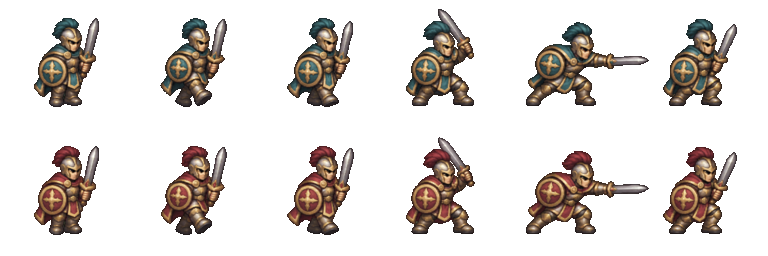
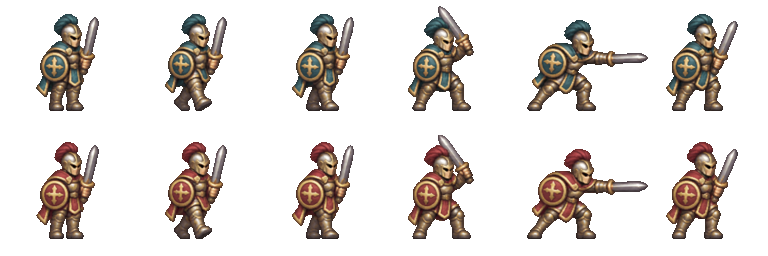
Refine follower proportions and band limits

diff --git a/games/meddle/game.js b/games/meddle/game.js
@@ -61,8 +61,8 @@ import { musicRequestCurrent } from "./music-state.mjs?v=20261107-1";
   const mapSizeDescription=size=>`${size}×${size} map · ${size===34?"standard walker speed":size===54?"walkers move 10% slower":"walkers move 20% slower"}`;
   const saveSessionId=globalThis.crypto?.randomUUID?.()||`${Date.now()}-${Math.random()}`;
   const terrainAtlas=new Image(),terrainPatterns={};terrainAtlas.src="./assets/terrain-textures-v1.png";terrainAtlas.addEventListener("load",()=>{const half=terrainAtlas.naturalWidth/2;for(const [name,qx,qy] of [["grass",0,0],["earth",half,0],["water",0,half],["bog",half,half]]){const tile=document.createElement("canvas");tile.width=tile.height=256;tile.getContext("2d").drawImage(terrainAtlas,qx,qy,half,half,0,0,256,256);terrainPatterns[name]=ctx.createPattern(tile,"repeat");}});
-  const followerAnimationSprites=new Image();followerAnimationSprites.src="./assets/follower-animations.png?v=2";
-  const championAnimationSprites=new Image();championAnimationSprites.src="./assets/champion-animations.png?v=2";
+  const followerAnimationSprites=new Image();followerAnimationSprites.src="./assets/follower-animations.png?v=3";
+  const championAnimationSprites=new Image();championAnimationSprites.src="./assets/champion-animations.png?v=3";
   const frontierResourceSprites=Object.fromEntries(["forest","mine","farm"].map(type=>{const image=new Image();image.src=`./assets/frontier-${type}.webp`;return[type,image];}));
   const buildingSprites=Object.fromEntries(["player","rival","rival2"].map(faction=>[faction,Array.from({length:4},(_,level)=>Array.from({length:4},(_,rotation)=>{const image=new Image();image.src=`./assets/building-${level+1}-${rotation}${faction==="player"?"":"-rival"}.png?v=8`;return image;}))]));
   // Each source render is centered on its plot's diamond, rather than pinned to
@@ -244,7 +244,7 @@ import { musicRequestCurrent } from "./music-state.mjs?v=20261107-1";
 
   function drawHouseLabel(h,used=[]){if(camera.zoom<1.15)return;const z=tileHeight(Math.floor(h.x),Math.floor(h.y));if(z<=water)return;const sprite=buildingSprites[h.faction][h.level-1][camera.rotation],base=iso(h.x,h.y,z),scale=BUILDING_SCALES[h.level-1],anchor=BUILDING_ANCHORS[h.level-1][camera.rotation],spriteHeight=sprite.complete&&sprite.naturalWidth?view.tw*scale*sprite.naturalHeight/sprite.naturalWidth:0,p=spriteHeight?{x:base.x,y:base.y-spriteHeight*anchor}:iso(h.x,h.y,z+[0,1.42,1.78,2.38,4.18][h.level]),label=`${HOUSE_NAMES[h.level]} · ${h.pop}/${h.cap}`;ctx.save();ctx.font="bold 9px ui-monospace,SFMono-Regular,monospace";ctx.textAlign="center";const width=Math.ceil(ctx.measureText(label).width)+10,x=clamp(p.x,width/2+4,view.w-width/2-4);let y=clamp(p.y-17,5,view.h-18),attempts=0;while(attempts++<5&&used.some(r=>x+width/2>r.x&&x-width/2<r.x+r.w&&y+13>r.y&&y<r.y+13))y=Math.max(5,y-15);used.push({x:x-width/2,y,w:width});ctx.fillStyle="#080b10d9";ctx.fillRect(x-width/2,y,width,13);ctx.strokeStyle=colors[h.faction];ctx.lineWidth=1;ctx.strokeRect(x-width/2,y,width,13);ctx.fillStyle="#f2ead2";ctx.fillText(label,x,y+10);ctx.restore();}
 
-  function drawRasterFollower(p,q,c,walk,fight){const champion=p.champion,leader=p.leader&&!champion,atlas=champion?championAnimationSprites:followerAnimationSprites;if(!atlas.complete||!atlas.naturalWidth)return false;const tier=leader?3:bandTier(p),rows=champion?2:6,row=champion?(p.faction==="player"?0:1):(p.faction==="player"?0:3)+tier-1,frame=followerAnimationFrame(p,elapsed),sw=atlas.naturalWidth/6,sh=atlas.naturalHeight/rows,size=view.tw*(champion?.74:leader?.7:.58+(tier-1)*.06),moving=(p.movingUntil||0)>elapsed,bob=moving&&!fight?Math.abs(walk)*-.2:0,dy=q.y-size*.82+bob,facing=p.facing===-1?-1:1;ctx.save();ctx.imageSmoothingEnabled=false;ctx.translate(q.x,0);ctx.scale(facing,1);ctx.drawImage(atlas,frame*sw,row*sh,sw,sh,-size/2,dy,size,size);ctx.restore();const readout=followerReadout(p),members=bandSize(p);ctx.save();if(leader){ctx.strokeStyle="#f3ce68";ctx.lineWidth=2;ctx.beginPath();ctx.arc(q.x,dy+size*.49,size*.27,Math.PI*.12,Math.PI*.88);ctx.stroke();}if(champion||leader||fight||readout.condition==="fading"||readout.condition==="wounded"){ctx.fillStyle="#07090cd9";ctx.fillRect(q.x-10,dy-3,20,3);ctx.fillStyle=readout.condition==="fading"?"#f3d77a":c;ctx.fillRect(q.x-10,dy-3,20*readout.strength/readout.maximum,3);}if(!champion&&members>1){ctx.fillStyle="#080b10dd";ctx.beginPath();ctx.arc(q.x+size*.25,dy+size*.15,7,0,Math.PI*2);ctx.fill();ctx.strokeStyle=c;ctx.stroke();ctx.fillStyle="#fff4d2";ctx.font="bold 9px ui-monospace";ctx.textAlign="center";ctx.fillText(String(members),q.x+size*.25,dy+size*.15+3);}ctx.restore();return true;}
+  function drawRasterFollower(p,q,c,walk,fight){const champion=p.champion,leader=p.leader&&!champion,atlas=champion?championAnimationSprites:followerAnimationSprites;if(!atlas.complete||!atlas.naturalWidth)return false;const tier=leader?3:bandTier(p),rows=champion?2:6,row=champion?(p.faction==="player"?0:1):(p.faction==="player"?0:3)+tier-1,frame=fight?3+Math.floor((elapsed+p.id*.03125)*9)%3:followerAnimationFrame(p,elapsed),sw=atlas.naturalWidth/6,sh=atlas.naturalHeight/rows,size=view.tw*(champion?.74:leader?.7:.58+(tier-1)*.06),moving=(p.movingUntil||0)>elapsed,bob=moving&&!fight?Math.abs(walk)*-.2:0,dy=q.y-size*.82,bacing=p.facing===-1?-1:1;ctx.save();ctx.imageSmoothingEnabled=false;ctx.translate(q.x,0);ctx.scale(bacing,1);ctx.drawImage(atlas,frame*sw,row*sh,sw,sh,-size/2,dy,size,size);ctx.restore();const readout=followerReadout(p),members=bandSize(p);ctx.save();if(leader){ctx.strokeStyle="#f3ce68";ctx.lineWidth=2;ctx.beginPath();ctx.arc(q.x,dy+size*.49,size*.27,Math.PI*.12,Math.PI*.88);ctx.stroke();}if(champion||leader||fight||readout.condition==="fading"||readout.condition==="wounded"){ctx.fillStyle="#07090cd9";ctx.fillRect(q.x-10,dy-3,20,3);ctx.fillStyle=readout.condition==="fading"?"#f3d77a":c;ctx.fillRect(q.x-10,dy-3,20*readout.strength/readout.maximum,3);}if(!champion&&members>1){ctx.fillStyle="#080b10dd";ctx.beginPath();ctx.arc(q.x+size*.25,dy+size*.15,7,0,Math.PI*2);ctx.fill();ctx.strokeStyle=c;ctx.stroke();ctx.fillStyle="#fff4d2";ctx.font="bold 9px ui-monospace";ctx.textAlign="center";ctx.fillText(String(members),q.x+size*.25,dy+size*.15+3);}ctx.restore();return true;}
 
   function drawPerson(p) {
     const z = tileHeight(clamp(Math.floor(p.x),0,N-1),clamp(Math.floor(p.y),0,N-1)); if (z <= water) return;
@@ -325,8 +325,10 @@ import { musicRequestCurrent } from "./music-state.mjs?v=20261107-1";
 
   function raiseReckoningRoute(p){const steps=Math.ceil(Math.hypot(p.x-N/2,p.y-N/2)*2),level=Math.ceil(water+1);for(let i=0;i<=steps;i++){const t=i/Math.max(1,steps),x=clamp(Math.floor(p.x+(N/2-p.x)*t),0,N-1),y=clamp(Math.floor(p.y+(N/2-p.y)*t),0,N-1);if(tileHeight(x,y)<=water)for(const [vx,vy] of [[x,y],[x+1,y],[x,y+1],[x+1,y+1]])heights[vy][vx]=Math.max(heights[vy][vx],level);}}
 
+  function emitDwellingFollower(h){const active=people.filter(p=>p.faction===h.faction),limit=activeBandLimit();if(active.length<limit){spawn(h.faction,h.x+rand(-.3,.3),h.y+rand(-.3,.3));return true;}const target=active.filter(p=>!p.leader&&!p.champion&&bandSize(p)<4).sort((a,b)=>dist(a,h)-dist(b,h))[0];if(target){target.members=bandSize(target)+1;target.hp=Math.min(target.members*18,target.hp+10);addBattleFx(target.x,target.y,"merge",colors[h.faction]);return true;}h.pop+=1;return false;}
+
   function updateHouses(dt){
-    if(frontierEconomy){refreshFrontierFarms();for(const faction of activeFactionDefs().map(def=>def.id)){const factionHouses=houses.filter(h=>h.faction===faction),factionPeople=people.filter(p=>p.faction===faction),farms=frontierEconomy.farms.filter(farm=>farm.faction===faction&&farm.active===true),workers=farms.filter(farm=>factionPeople.some(p=>p.job==="food"&&dist(farm,p)<.75)).length;advanceFoodEconomy(frontierEconomy.stock[faction],{walkers:factionPeople.length,houses:factionHouses.length,residents:factionHouses.reduce((sum,h)=>sum+h.pop,0),farms:farms.length,workers,dt});}}const orderedHouses=frontierEconomy?[...houses].sort((a,b)=>a.faction.localeCompare(b.faction)||a.y-b.y||a.x-b.x):houses;for(const h of orderedHouses){h.grow+=dt;h.hp=Math.min(20+h.level*10,h.hp+dt*.3);if(frontierEconomy&&frontierEconomy.stock[h.faction].food<=0){h.grow=Math.max(0,h.grow-dt*.7);continue;}if(h.grow>dwellingGrowthInterval(h.level)*(frontierEconomy?2.2:1)){const emitted=advanceDwelling(h);if(frontierEconomy)frontierEconomy.stock[h.faction].food=Math.max(0,frontierEconomy.stock[h.faction].food-(1.5+h.level*.5));if(emitted)spawn(h.faction,h.x+rand(-.3,.3),h.y+rand(-.3,.3));h.grow=0;}}if(frontierEconomy&&simElapsed>=frontierEconomy.nextFarmAt){buildFrontierFarms();buildFrontierCauseways();frontierEconomy.nextFarmAt=simElapsed+15;}
+    if(frontierEconomy){refreshFrontierFarms();for(const faction of activeFactionDefs().map(def=>def.id)){const factionHouses=houses.filter(h=>h.faction===faction),factionPeople=people.filter(p=>p.faction===faction),farms=frontierEconomy.farms.filter(farm=>farm.faction===faction&&farm.active===true),workers=farms.filter(farm=>factionPeople.some(p=>p.job==="food"&&dist(farm,p)<.75)).length;advanceFoodEconomy(frontierEconomy.stock[faction],{walkers:factionPeople.length,houses:factionHouses.length,residents:factionHouses.reduce((sum,h)=>sum+h.pop,0),farms:farms.length,workers,dt});}}const orderedHouses=frontierEconomy?[...houses].sort((a,b)=>a.faction.localeCompare(b.faction)||a.y-b.y||a.x-b.x):houses;for(const h of orderedHouses){h.grow+=dt;h.hp=Math.min(20+h.level*10,h.hp+dt*.3);if(frontierEconomy&&frontierEconomy.stock[h.faction].food<=0){h.grow=Math.max(0,h.grow-dt*.7);continue;}if(h.grow>dwellingGrowthInterval(h.level)*(frontierEconomy?2.2:1)){const emitted=advanceDwelling(h);if(frontierEconomy)frontierEconomy.stock[h.faction].food=Math.max(0,frontierEconomy.stock[h.faction].food-(1.5+h.level*.5));if(emitted)emitDwellingFollower(h);h.grow=0;}}if(frontierEconomy&&simElapsed>=frontierEconomy.nextFarmAt){buildFrontierFarms();buildFrontierCauseways();frontierEconomy.nextFarmAt=simElapsed+15;}
   }
 
   function farmRouteLength(home,farm){const blocked=(x,y)=>landmarks.some(item=>Math.floor(item.x)===x&&Math.floor(item.y)===y&&landmarkBlocksPath(item));return boundedFarmRoute({start:home,goal:farm,radius:12,canEnter:(x,y,current)=>x>=0&&y>=0&&x<N&&y<N&&dry(x,y)&&Math.abs(tileHeight(x,y)-tileHeight(current.x,current.y))<=1.6&&!blocked(x,y),diagonalClear:(current,dx,dy)=>!blocked(current.x+dx,current.y)&&!blocked(current.x,current.y+dy)});}
@@ -351,7 +353,7 @@ import { musicRequestCurrent } from "./music-state.mjs?v=20261107-1";
   function nearestTo(origin,items){let best=null,bestDistance=Infinity;for(const item of items){const distance=dist(origin,item);if(distance<bestDistance){best=item;bestDistance=distance;}}return best;}
   const activeBandLimit=()=>N===74?120:N===54?90:60;
   function mergeCandidates(faction){const active=people.filter(p=>p.faction===faction&&!p.leader&&!p.champion),buckets=spatialBuckets(active,1.5);return active.some(source=>nearbyFrom(buckets,source,1.5,1.5).some(target=>target!==source&&bandSize(target)<4));}
-  function consolidateFaction(faction,limit=0){let active=people.filter(p=>p.faction===faction),merged=0,souls=0;const buckets=spatialBuckets(active,1.5),sources=active.filter(p=>!p.leader&&!p.champion).sort((a,b)=>bandSize(a)-bandSize(b));for(const source of sources){if(limit&&active.length<=limit||!people.includes(source))break;const target=nearbyFrom(buckets,source,1.5,1.5).filter(p=>p!==source&&p.faction===faction&&!p.leader&&!p.champion&&people.includes(p)&&bandSize(p)<4).sort((a,b)=>dist(a,source)-dist(b,source))[0];if(!target)continue;const moved=mergeFollowerBands(target,source);if(!moved)continue;merged++;souls+=moved;addBattleFx(target.x,target.y,"merge",colors[faction]);if(bandSize(source)<=0||source.members===0){people.splice(people.indexOf(source),1);active=active.filter(p=>p!==source);}}return{merged,souls};}
+  function consolidateFaction(faction,limit=0){let active=people.filter(p=>p.faction===faction),operations=0,souls=0,effects=0;const beforeBands=active.length,buckets=spatialBuckets(active,1.5),sources=active.filter(p=>!p.leader&&!p.champion).sort((a,b)=>bandSize(a)-bandSize(b));for(const source of sources){if(limit&&active.length<=limit||!people.includes(source))break;const target=nearbyFrom(buckets,source,1.5,1.5).filter(p=>p!==source&&p.faction===faction&&!p.leader&&!p.champion&&people.includes(p)&&bandSize(p)<4).sort((a,b)=>dist(a,source)-dist(b,source))[0];if(!target)continue;const moved=mergeFollowerBands(target,source);if(!moved)continue;operations++;souls+=moved;if(effects++<4)addBattleFx(target.x,target.y,"merge",colors[faction]);if(bandSize(source)<=0||source.members===0){people.splice(people.indexOf(source),1);active=active.filter(p=>p!==source);}}return{operations,souls,beforeBands,afterBands:people.filter(p=>p.faction===faction).length};}
   function consolidateFollowerBands(){const limit=activeBandLimit();for(const faction of activeFactionDefs().map(def=>def.id).filter(id=>id!=="player"))if(people.filter(p=>p.faction===faction).length>limit)consolidateFaction(faction,limit);}
   function loseBandMember(p){const casualty=applyFollowerCasualty(p);addBattleFx(p.x,p.y,"fall",colors[p.faction]);if(casualty.dead){const index=people.indexOf(p);if(index>=0)people.splice(index,1);}return casualty;}
   function updatePeople(dt){if(simElapsed>=nextBandMergeAt){consolidateFollowerBands();nextBandMergeAt=simElapsed+1;}const peopleBuckets=spatialBuckets(people),houseBuckets=spatialBuckets(houses),farmBuckets=spatialBuckets(frontierEconomy?.farms||[]),nodeBuckets=spatialBuckets((frontierEconomy?.nodes||[]).filter(node=>node.amount>0)),alivePeople=new Set(people),starvingFactions=new Set(frontierEconomy?activeFactionDefs().map(def=>def.id).filter(id=>frontierEconomy.stock[id].food<=0):[]);pathBudget=N>34?Math.max(2,Math.floor(120*dt/Math.max(1,speed))):Infinity;
@@ -360,7 +362,7 @@ import { musicRequestCurrent } from "./music-state.mjs?v=20261107-1";
       if(frontierEconomy&&p.job==="food"){const farm=nearbyFrom(farmBuckets,p,.75).find(item=>item.faction===p.faction&&item.active===true);if(farm){p.retarget=0;continue;}}
       if(frontierEconomy&&p.job&&p.job!=="food"&&p.job!=="build"){const node=nearbyFrom(nodeBuckets,p,.7).find(item=>item.type===resourceForJob(p.job)&&item.amount>0);if(node){harvest(node,frontierEconomy.stock[p.faction],dt,p.job==="wood"?1.1:.8);p.retarget=0;continue;}}
       const enemyHouse=nearbyFrom(houseBuckets,p,.9).find(h=>h.faction!==p.faction);if(p.champion&&enemyHouse){assaultHouse(p,enemyHouse,dt);continue;}
-      const enemy=order==="reckoning"?null:nearbyFrom(peopleBuckets,p,.55).find(q=>q!==p&&q.faction!==p.faction&&alivePeople.has(q));if(enemy&&!p.champion){faceToward(p,enemy);faceToward(enemy,p);const attackerRank=1+(bandTier(p)-1)*.12,defenderRank=1+(bandTier(enemy)-1)*.12,deaths=resolveCombatTick(p,enemy,dt*(p.leader?4:2.2)*Math.sqrt(bandSize(p))*attackerRank,dt*(enemy.champion?8:enemy.leader?3:1.5)*Math.sqrt(bandSize(enemy))*defenderRank);p.combatUntil=enemy.combatUntil=elapsed+.3;if((Math.floor(elapsed*10)+p.id)%4===0)addBattleFx((p.x+enemy.x)/2,(p.y+enemy.y)/2);if(deaths.defenderDead){const casualty=loseBandMember(enemy);awardBandExperience(p,casualty.lost);if(casualty.dead)alivePeople.delete(enemy);}if(deaths.attackerDead){const casualty=loseBandMember(p);awardBandExperience(enemy,casualty.lost);if(casualty.dead)alivePeople.delete(p);}continue;}
+      const enemy=order==="reckoning"?null:nearbyFrom(peopleBuckets,p,.55).find(q=>q!==p&&q.faction!==p.faction&&alivePeople.has(q));if(enemy){faceToward(p,enemy);faceToward(enemy,p);const attackerRank=1+(bandTier(p)-1)*.12,defenderRank=1+(bandTier(enemy)-1)*.12,deaths=resolveCombatTick(p,enemy,dt*(p.champion?8:p.leader?4:2.2)*Math.sqrt(bandSize(p))*attackerRank,dt*(enemy.champion?8:enemy.leader?4:2.2)*Math.sqrt(bandSize(enemy))*defenderRank);p.combatUntil=enemy.combatUntil=elapsed+.3;if((Math.floor(elapsed*10)+p.id)%4===0)addBattleFx((p.x+enemy.x)/2,(p.y+enemy.y)/2);if(deaths.defenderDead){const casualty=loseBandMember(enemy);awardBandExperience(p,casualty.lost);if(casualty.dead)alivePeople.delete(enemy);}if(deaths.attackerDead){const casualty=loseBandMember(p);awardBandExperience(enemy,casualty.lost);if(casualty.dead)alivePeople.delete(p);}continue;}
       if(enemyHouse){assaultHouse(p,enemyHouse,dt);continue;}
       const ally=p.faction!=="player"&&nearbyFrom(peopleBuckets,p,.25).find(q=>q!==p&&q.faction===p.faction&&!q.leader&&!p.leader&&p.hp<6&&bandSize(q)<4&&alivePeople.has(q));if(ally){mergeFollowerBands(ally,p);addBattleFx(ally.x,ally.y,"merge",colors[p.faction]);if(p.members===0){alivePeople.delete(p);people.splice(people.indexOf(p),1);}continue;}
       if(order!=="reckoning"&&p.faction==="player"&&p.settle<=0&&(order==="settle"||order==="fightsettle"&&!p.champion&&!findLocalFightTarget(p))&&trySettle(p)){continue;} if(order!=="reckoning"&&p.faction!=="player"&&p.settle<=0&&trySettle(p)){continue;}
@@ -415,7 +417,7 @@ import { musicRequestCurrent } from "./music-state.mjs?v=20261107-1";
   function orunAct(){const own=people.filter(person=>person.faction==="rival2");if(!own.length)return;const homes=houses.filter(house=>house.faction==="rival2"),doctrine=rivalDoctrineAt(simElapsed+37),actor=own[Math.floor(worldRandom()*own.length)];if(doctrine===0&&rival2Mana>=8){const anchor=[...homes].sort((a,b)=>(a.support||0)-(b.support||0))[0]||actor;if(shape({x:clamp(Math.round(anchor.x+rand(-2,2)),0,N),y:clamp(Math.round(anchor.y+rand(-2,2)),0,N)},worldRandom()<.76?1:-1,"rival2"))rival2Mana-=8;}if(doctrine===1&&rival2Mana>=300&&!own.some(person=>person.champion)){const leader=own.find(person=>person.leader)||actor;leader.champion=true;leader.hp=Math.max(leader.hp,110);rival2Mana-=300;say("Orun crowns a champion. A second enemy host is advancing.",true,leader);}if(doctrine===2&&rival2Mana>=210&&worldRandom()<.32){const targets=houses.filter(house=>house.faction!=="rival2").sort((a,b)=>(a.lastTargetedAt||-Infinity)-(b.lastTargetedAt||-Infinity));const target=targets[0];if(target){for(let y=Math.floor(target.y)-1;y<=Math.floor(target.y)+1;y++)for(let x=Math.floor(target.x)-1;x<=Math.floor(target.x)+1;x++)if(x>=0&&y>=0&&x<N&&y<N&&worldRandom()<.45)bogs.add(`${x},${y}`);target.lastTargetedAt=simElapsed;rival2Mana-=210;say(`Orun poisoned ${target.faction==="player"?"your":"Veyra's"} ${HOUSE_NAMES[target.level]} in the ${realmSector(target)}.`,true,target);}}}
 
   function population(f){return populationOf(people,houses,f);}
-  function updateBandState(){const ph=houses.filter(h=>h.faction==="player").length,pb=people.filter(p=>p.faction==="player").length,rh=houses.filter(h=>h.faction==="rival").length,rb=people.filter(p=>p.faction==="rival").length,limit=activeBandLimit(),doctrine=["shaping land","mustering","sabotaging"][rivalDoctrineAt(simElapsed)],playerState=$("#player-homes"),canMerge=mergeCandidates("player");playerState.textContent=`${ph} dwelling${ph===1?"":"s"} · ${pb}/${limit} active bands`;playerState.title=`Choose Consolidate nearby to combine close ordinary followers into bands of up to four souls.`;const button=$("#consolidate-bands");button.disabled=!canMerge;button.title=canMerge?"Combine nearby ordinary followers while conserving every soul.":"Move ordinary followers closer together before consolidating.";if(!frontierTestMode)$("#rival-homes").textContent=`${rh} dwelling${rh===1?"":"s"} · ${rb}/${limit} bands · ${doctrine}`;}
+  function updateBandState(){const ph=houses.filter(h=>h.faction==="player").length,pb=people.filter(p=>p.faction==="player").length,rh=houses.filter(h=>h.faction==="rival").length,rb=people.filter(p=>p.faction==="rival").length,limit=activeBandLimit(),doctrine=["shaping land","mustering","sabotaging"][rivalDoctrineAt(simElapsed)],playerState=$("#player-homes"),canMerge=mergeCandidates("player");playerState.textContent=`${ph} dwelling${ph===1?"":"s"} · ${pb}/${limit} active bands`;playerState.title=`At ${limit} active bands, new emigrants join an existing band or remain sheltered. Consolidate nearby to open room.`;const button=$("#consolidate-bands");button.disabled=!canMerge;button.title=canMerge?"Combine nearby ordinary followers while conserving every soul.":"Move ordinary followers closer together before consolidating.";if(!frontierTestMode)$("#rival-homes").textContent=`${rh} dwelling${rh===1?"":"s"} · ${rb}/${limit} bands · ${doctrine}`;}
   function powerAvailability(name){if(name==="armageddon"&&!matchVariantRule(matchVariant).reckoning)return{available:false,reason:"Sealed in Mortal Contest"};return operationAvailability({paused,mana,cost:COST[name]});}
   function rulesDescription(){const world=worldRule(currentWorld),variant=matchVariantRule(matchVariant);return`${world.name} · ${world.summary} ${variant.name} · ${variant.summary}`;}
   function updateUI(){const pp=population("player"),rp=population("rival"),op=frontierTestMode?population("rival2"):0,ph=houses.filter(h=>h.faction==="player").length,rh=houses.filter(h=>h.faction==="rival").length,oh=frontierTestMode?houses.filter(h=>h.faction==="rival2").length:0,doctrine=["shaping land","mustering","sabotaging"][rivalDoctrineAt(simElapsed)],observed=faction=>{const seenPeople=people.filter(p=>p.faction===faction&&visibleFrontierObject(p)),seenHomes=houses.filter(h=>h.faction===faction&&visibleFrontierObject(h));return{seen:seenPeople.length+seenHomes.length>0,pop:seenPeople.length+seenHomes.reduce((sum,h)=>sum+h.pop,0),homes:seenHomes.length};},vr=frontierTestMode?observed("rival"):null,or=frontierTestMode?observed("rival2"):null;$("#player-pop").textContent=pp;$("#rival-label").textContent=frontierTestMode?"Veyra / Orun":"Veyra";$("#rival-pop").textContent=frontierTestMode?`${vr.seen?`${vr.pop}+`:"?"} · ${or.seen?`${or.pop}+`:"?"}`:rp;$("#player-homes").textContent=`${ph} dwelling${ph===1?"":"s"}`;$("#rival-homes").textContent=frontierTestMode?`${vr.seen?vr.homes:"?"} / ${or.seen?or.homes:"?"} observed dwellings`:`${rh} dwelling${rh===1?"":"s"} · ${doctrine}`;$("#rival-intent").textContent=frontierTestMode?(vr.seen||or.seen?`Rival activity observed · ${rivalIntent}`:"Rival intentions remain hidden beyond the shroud."):rivalIntent;if(frontierEconomy){const stock=frontierEconomy.stock.player,shortage=stock.food<20?" · FOOD SHORTAGE":stock.wood<28?" · wood needed":"";$("#frontier-stock").textContent=`Food ${Math.floor(stock.food)} · Wood ${Math.floor(stock.wood)} · Stone ${Math.floor(stock.stone)}${shortage}`;}$("#mana-value").textContent=Math.floor(mana);$("#mana-fill").style.width=`${Math.min(100,mana/9.99)}%`;$$(`[data-power]`).forEach(b=>{const name=b.dataset.power,state=powerAvailability(name);b.disabled=!state.available;b.title=`${POWER_INFO[name].name}: ${COST[name]} influence · ${POWER_INFO[name].summary}. ${state.reason}.`;b.setAttribute("aria-label",b.title);});}
@@ -481,7 +483,7 @@ import { musicRequestCurrent } from "./music-state.mjs?v=20261107-1";
   window.addEventListener("keydown",e=>{if(e.target.closest?.("input, select, textarea"))return;const k=e.key.toLowerCase();if(k==="escape"&&power){selectPower(null);say("Power target cancelled.");e.preventDefault();return;}if(e.repeat)return;if(k==="h"||k==="b"){(k==="h"?focusPeople:focusBattle)();e.preventDefault();return;}if(["arrowleft","arrowright","arrowup","arrowdown","w","a","s","d"].includes(k)){keys.add(k);e.preventDefault();return;}if(k==="z"||k==="x"){rotateCamera(k==="z"?-1:1);e.preventDefault();return;}if(k==="r"||k==="f"){e.preventDefault();if(power){say("Cancel the armed power before shaping terrain.");return;}if(paused){say("Resume the world before shaping terrain.");return;}if(!hoverCorner){say("Hover a terrain joint first.");return;}const delta=k==="r"?1:-1;if(shape(hoverCorner,delta)){setStatus(`${k==="r"?"Raised":"Lowered"} joint ${hoverCorner.x},${hoverCorner.y} with the ${k.toUpperCase()} key.${landmarkFeedback()}${describeSettlementChange(settlementChange)}`);updateUI();}return;}});window.addEventListener("keyup",e=>keys.delete(e.key.toLowerCase()));
   $$('.tool').forEach(b=>b.addEventListener("click",()=>setTool(b.dataset.tool)));
   $$('.order').forEach(b=>b.addEventListener("click",()=>{order=b.dataset.order;setOrderIndicator({settle:"Settle",gather:"Gather",roam:"Roam",fightsettle:"Fight + settle"}[order]);setStatus({settle:"Your people seek broad, level ground.",gather:"Your leader follows the beacon and the tribe follows the leader.",roam:"Your people roam outward and confront rivals.",fightsettle:"Your people fight reachable enemies nearby, then settle when the area is clear."}[order]);}));
-  $("#consolidate-bands").addEventListener("click",()=>{const before=population("player"),result=consolidateFaction("player");if(!result.merged){setStatus("No nearby ordinary followers can consolidate yet.");return;}const after=population("player"),message=`${result.merged} nearby group${result.merged===1?"":"s"} joined into stronger bands. ${after} souls remain.`;say(message,true,people.find(p=>p.faction==="player"));if(after!==before)console.error("Follower consolidation changed population",{before,after});updateUI();});
+  $("#consolidate-bands").addEventListener("click",()=>{const before=population("player"),result=consolidateFaction("player");if(!result.operations){setStatus("No nearby ordinary followers can consolidate yet.");return;}const after=population("player"),folded=result.beforeBands-result.afterBands,message=`Consolidated ${folded} nearby band${folded===1?"":"s"}: ${result.beforeBands} → ${result.afterBands} active bands. ${after} souls remain.`;say(message,true,people.find(p=>p.faction==="player"));if(after!==before)console.error("Follower consolidation changed population",{before,after});updateUI();});
   $$('[data-speed]').forEach(b=>b.addEventListener("click",()=>setSpeed(Number(b.dataset.speed))));
   $$('[data-power]').forEach(b=>b.addEventListener("click",()=>{const name=b.dataset.power;if(name==="champion"||name==="flood"||name==="armageddon")usePower(name,null);else selectPower(power===name?null:name);}));
   $$('[data-pan]').forEach(b=>b.addEventListener("click",()=>panScreen(b.dataset.pan,1.35)));$("#home-view").addEventListener("click",()=>{const home=people.find(p=>p.faction==="player"&&p.leader)||factionStarts.player;camera.x=home.x;camera.y=home.y;camera.zoom=1.8;camera.rotation=0;applyZoom();updateCameraReadout();});$("#focus-people").addEventListener("click",focusPeople);$("#focus-battle").addEventListener("click",focusBattle);$("#zoom-in").addEventListener("click",()=>zoomCamera(.12));$("#zoom-out").addEventListener("click",()=>zoomCamera(-.12));$("#rotate-left").addEventListener("click",()=>rotateCamera(-1));$("#rotate-right").addEventListener("click",()=>rotateCamera(1));

diff --git a/games/meddle/index.html b/games/meddle/index.html
@@ -118,6 +118,6 @@
   <dialog id="events-dialog" class="modal"><div class="modal-card events-card"><p class="eyebrow">Chronicle</p><h2>Important events</h2><ol id="modal-event-history" class="event-history modal-event-history" aria-label="Important event history"></ol><button id="close-events" type="button">Return to the world</button></div></dialog>
   <dialog id="world-dialog" class="modal"><div class="modal-card world-card"><p class="eyebrow">World rules</p><h2 id="world-details-title">Verdant Reach</h2><p id="world-details-meta" class="world-details-meta"></p><p id="world-details-copy"></p><button id="close-world-details" type="button">Return to the world</button></div></dialog>
   <dialog id="outcome" class="modal"><div class="modal-card"><p id="outcome-kicker" class="eyebrow">The world remembers</p><h2 id="outcome-title">Victory</h2><p id="outcome-copy"></p><p id="outcome-save-warning" class="save-warning outcome-save-warning" hidden></p><button id="play-again" type="button">Shape another world</button><button id="outcome-continue-unsaved" type="button" hidden>Continue without saving</button><button id="outcome-reload" type="button" hidden>Reload newer saved world</button></div></dialog>
-  <script type="module" src="game.js?v=20261108-207"></script>
+  <script type="module" src="game.js?v=20261108-209"></script>
 </body>
 </html>
